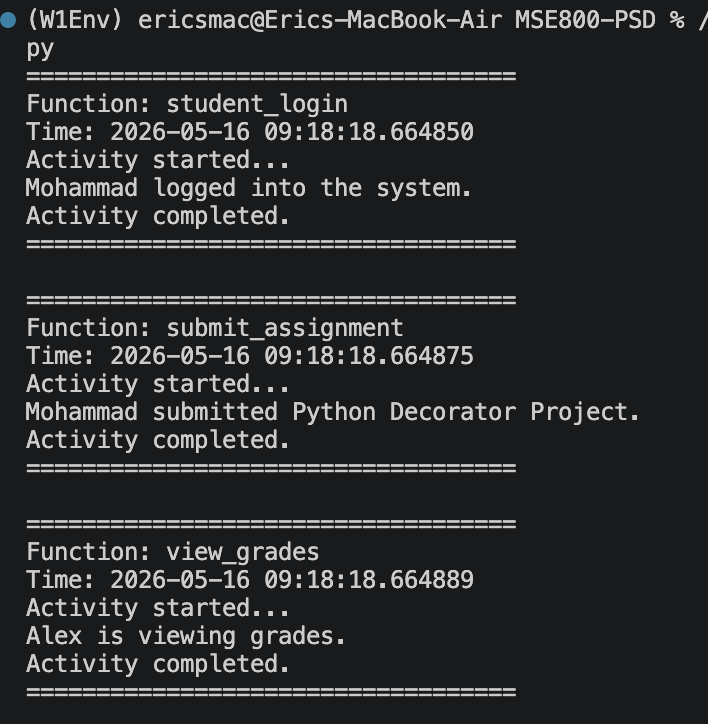
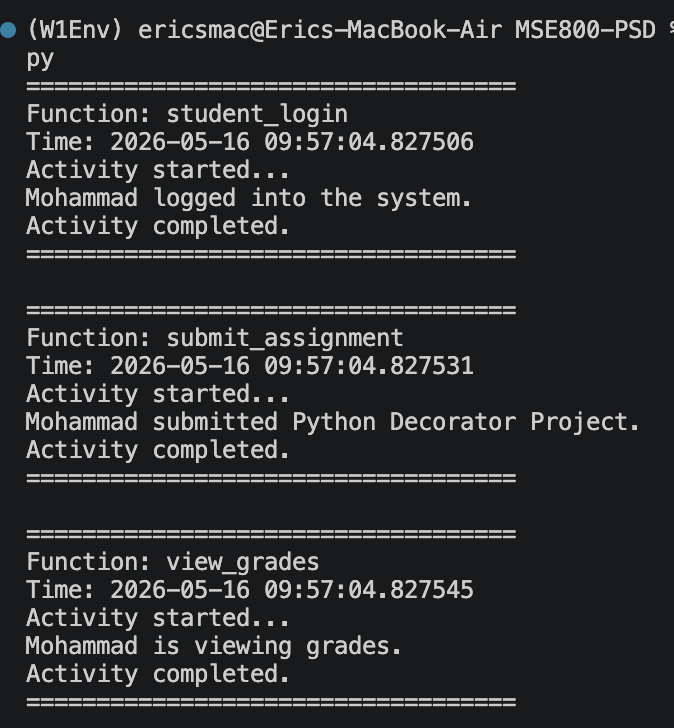
bug fixed

Changed region(s): [[0.0, 0.0, 1.0, 0.3646], [0.0312, 0.395, 0.9347, 0.6685], [0.0312, 0.6989, 0.7789, 0.9724]]

diff --git a/W6/W6Act1/main.py b/W6/W6Act1/main.py
@@ -18,7 +18,7 @@ def main():
         "Python Decorator Project"
     )
 
-    view_grades("Alex")
+    view_grades("Mohammad")
 
 
 if __name__ == "__main__":

diff --git a/W6/W6Act1/README.md b/W6/W6Act1/README.md
@@ -11,5 +11,7 @@ The main purpose of `log_activity()` is to record and display activity informati
 
 The decorator uses `*args` and `**kwargs` to capture the function arguments. `*args` is used for positional arguments, while `**kwargs` is used for keyword arguments. This makes the decorator flexible because it can be applied to different functions, even if they receive different types or numbers of arguments.
 
+The program had a logic bug in `main.py`. The program used `student_login("Mohammad")` and `submit_assignment("Mohammad", "Python Decorator Project")`, but then called `view_grades("Alex")`.
+
 
 ![W6Act1](image.png)